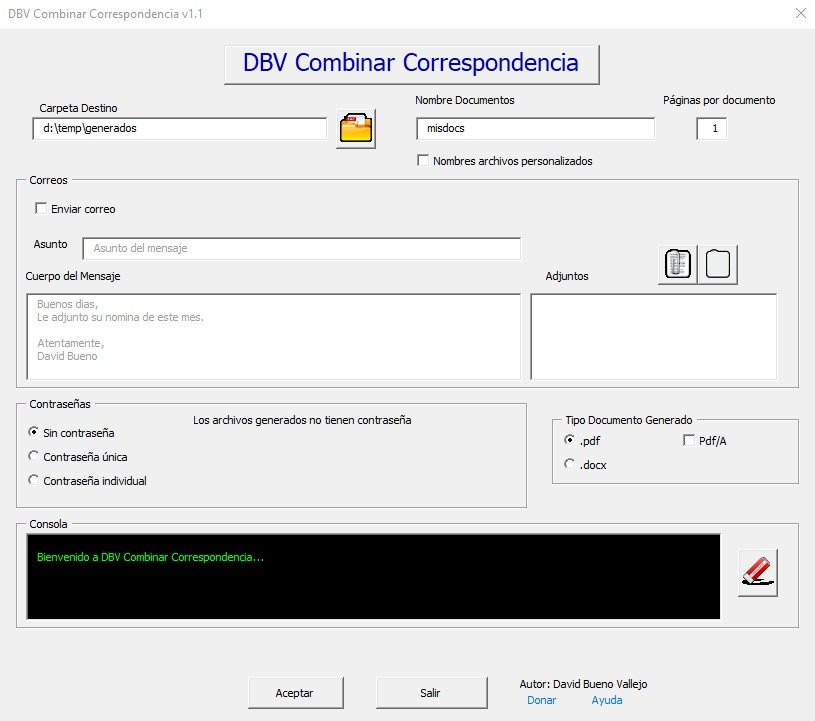
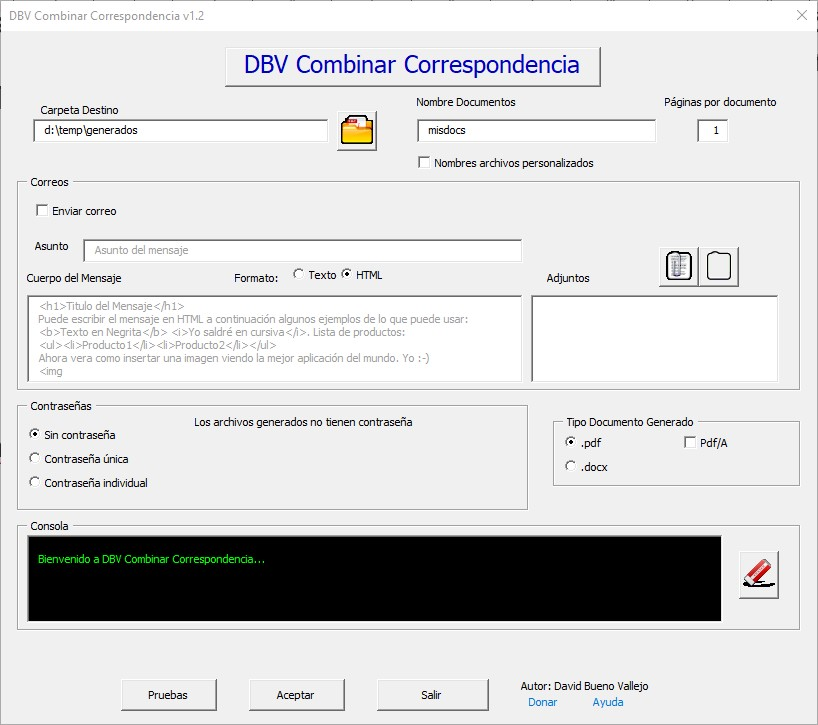
Version 1.2

diff --git a/README.md b/README.md
@@ -6,11 +6,12 @@
  4. Se puede dar un nombre genérico o único a cada documento generado
  5. Se puede seleccionar la carpeta donde se guardarán los documentos
  6. Se puede elegir enviar los documentos por correos definiendo el asunto y cuerpo del mensaje.
- 7. Si se elige enviar correo, se buscarán automáticamente las cuentas existentes en outlook para poder seleccionar una.
- 8. Si se envía un correo, se pueden enviar tantos archivos como se quieran como adjuntos comunes
- 9. Se puede seleccionar el número de páginas que tendrá cada subdocumento 
- 10. Si se utiliza exportación a word, el número de páginas se selecciona automáticamente (usando las secciones)
- 11. Se dispone de una consola para obtener información sobre proceso, errores y resultado.
+ 7. El cuerpo del mensaje puede escribirse en texto plano o en HTML
+ 8. Si se elige enviar correo, se buscarán automáticamente las cuentas existentes en outlook para poder seleccionar una.
+ 9. Si se envía un correo, se pueden enviar tantos archivos como se quieran como adjuntos comunes
+ 10. Se puede seleccionar el número de páginas que tendrá cada subdocumento 
+ 11. Si se utiliza exportación a word, el número de páginas se selecciona automáticamente (usando las secciones)
+ 12. Se dispone de una consola para obtener información sobre proceso, errores y resultado.
 
   Los apartados principales son:
  
@@ -18,6 +19,7 @@
 2. [Preparación del documento combinado](Ayuda.md#preparaci%C3%B3n-del-documento-combinado)
 3. [Uso de la aplicación](Ayuda.md#usando-dbv-combinar-correspondencia)
 4. [Video Tutoriales](README.md#video-tutoriales)
+6. [Opiniones](Opiniones.md)
 5. [Otras Utilidades](Utilidades/README.md)
 6. [Curso de Microsoft Word](README.md#curso-de-microsoft-word)
 7. [El Origen](origen.md#origen)

diff --git a/Opiniones.md b/Opiniones.md
@@ -1,0 +1,18 @@
+# Opiniones
+
+En esta página mostraremos las empresas que amablemente han informado que utilizan al herramienta. Además se muestran algunos de los comentarios más relevantes recibidos en diferentes medios como el Canal de Youtube.
+## Empresas
+
+Agradecimiento a las empresas que han autorizado su publcación en esta página que utilizan DBV Combinar Correspondencia
+
+<img src="Imagenes/Logos/Logo_LCS.png" height="100" />
+[<img src="Imagenes/Logos/bosco_films_logo.png" height="100"/>](https://www.boscofilms.es/)
+
+## Opiniones Youtube
+Opiniones en los videos donde se explica DBV Combinar correspondencia que pueden verse [aquí](https://youtube.com/playlist?list=PLnNbmcjjevxss8tF1cEtOe9eh6q6eJQd9)
+
+<b>Laia A</b> Estos vídeos me han salvado la vida, muchas gracias!! :D
+
+<b>Norberto Pachecho</b>Sin lugar a dudas este contenido vale oro, muchas gracias por compartir tu conocimiento y la herramienta que desarrollaste.  Tienes un nuevo suscriptor.
+
+<b>Daniel L.A.</b>Muchísimas gracias por tu esfuerzo y tu generosidad, será muy útil para comunicarnos con los socios de nuestra asociación y ademas con la garantía de la protección de privacidad de datos personales. ¡¡¡GRACIAS¡¡¡
